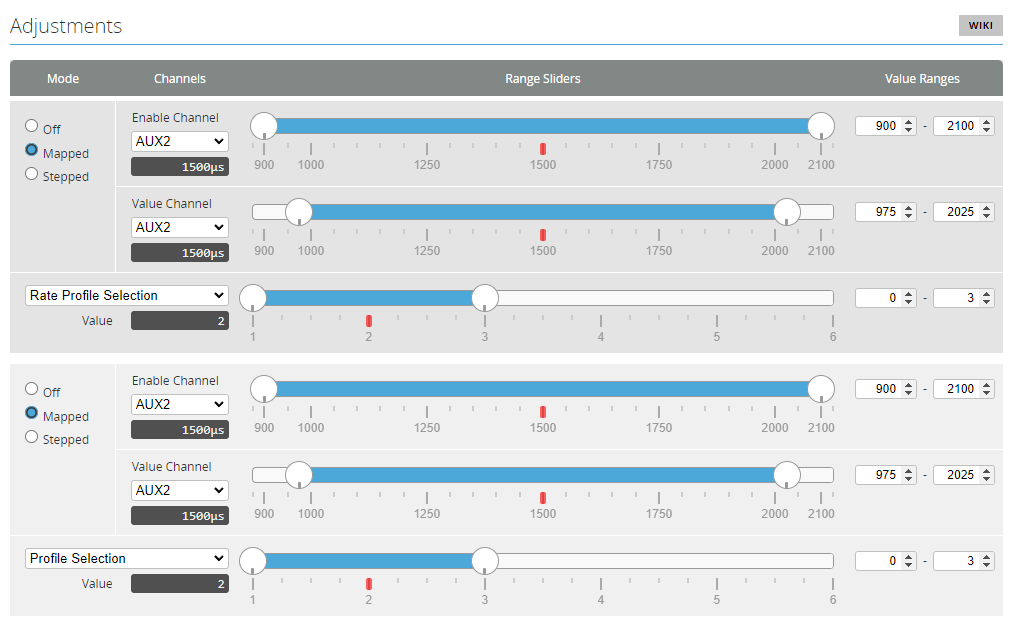
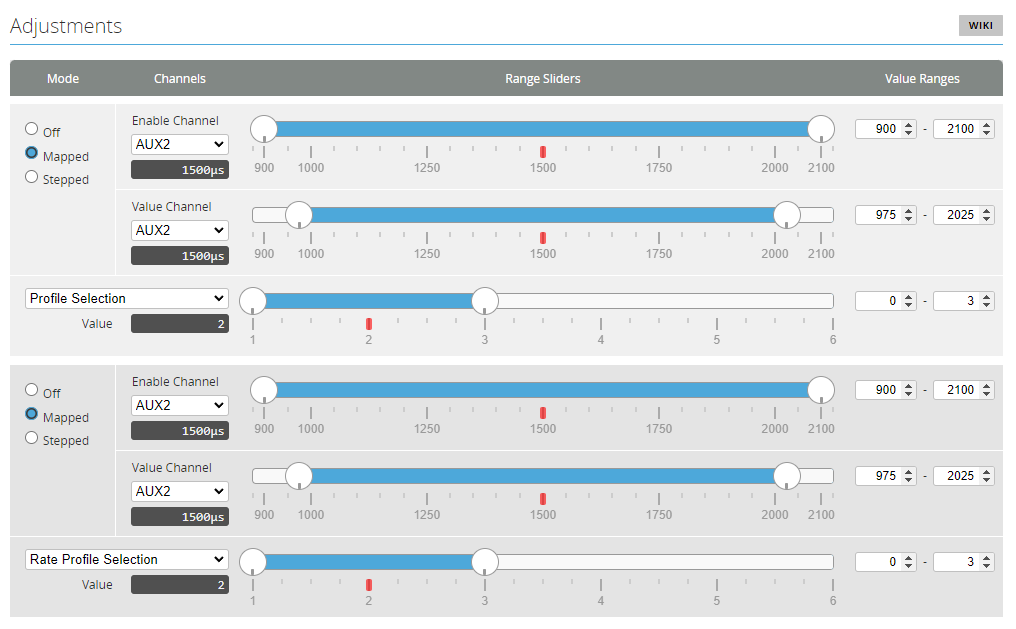
modified:   docs/Tutorial-Walkthroughs/Rotorflight-Generic-Radio-Setup.md 	modified:   docs/Tutorial-Walkthroughs/img/generic-setup-prof-switch.png

diff --git a/docs/Tutorial-Walkthroughs/Rotorflight-Generic-Radio-Setup.md b/docs/Tutorial-Walkthroughs/Rotorflight-Generic-Radio-Setup.md
@@ -126,8 +126,8 @@ Proceed to Adjustment Tab and setup Profiles and rates switching as per below pi
 Alternatively in CLI.
 
 ```
-adjfunc 0 1 2 900 2100 2 975 2025 975 2025 0 0 3
-adjfunc 31 2 2 900 2100 2 975 2025 975 2025 0 0 3
+adjfunc 0 2 1 900 2100 1 975 2025 975 2025 0 0 3
+adjfunc 1 1 1 900 2100 1 975 2025 975 2025 0 0 3
 ```
 
 ### Rescue Setup
@@ -180,36 +180,36 @@ Buffer packs like the [1st Buffer-Pack](https://1st-rc.com/en/product/1st-buffer
 Since there is many functions required to perform the In-flight adjustment as per the above table, you can directly copy the below commands to CLI and save.
 
 ```
-adjfunc 1 14 5 900 1100 6 1025 1075 1925 1975 5 10 200
-adjfunc 2 18 5 900 1100 6 1100 1150 1850 1900 5 10 200
-adjfunc 3 22 5 900 1100 6 1175 1225 1775 1825 5 10 200
-adjfunc 4 49 5 900 1100 6 1250 1300 1700 1750 5 10 200
-adjfunc 5 27 5 900 1100 6 1325 1375 1625 1675 5 10 200
-adjfunc 6 26 5 900 1100 6 1400 1450 1550 1600 5 10 200
-adjfunc 7 15 5 1100 1300 6 1025 1075 1925 1975 5 10 200
-adjfunc 8 19 5 1100 1300 6 1100 1150 1850 1900 5 10 200
-adjfunc 9 23 5 1100 1300 6 1175 1225 1775 1825 5 10 200
-adjfunc 10 50 5 1100 1300 6 1250 1300 1700 1750 5 10 200
-adjfunc 11 28 5 1100 1300 6 1325 1375 1625 1675 5 10 200
-adjfunc 12 29 5 1100 1300 6 1400 1450 1550 1600 5 10 200
-adjfunc 13 16 5 1300 1400 6 1025 1075 1925 1975 5 10 200
-adjfunc 14 20 5 1300 1400 6 1100 1150 1850 1900 5 10 200
-adjfunc 15 24 5 1300 1400 6 1175 1225 1775 1825 5 10 200
-adjfunc 16 51 5 1300 1400 6 1250 1300 1700 1750 5 10 200
-adjfunc 17 39 5 1300 1400 6 1325 1375 1625 1675 5 10 200
-adjfunc 18 40 5 1300 1400 6 1400 1450 1550 1600 5 10 200
-adjfunc 19 17 5 1550 1700 6 1025 1075 1925 1975 5 10 200
-adjfunc 20 21 5 1550 1700 6 1100 1150 1850 1900 5 10 200
-adjfunc 21 25 5 1550 1700 6 1175 1225 1775 1825 5 10 200
-adjfunc 22 52 5 1550 1700 6 1250 1300 1700 1750 5 10 200
-adjfunc 23 59 5 1750 1900 6 1025 1075 1925 1975 5 10 200
-adjfunc 24 60 5 1750 1900 6 1100 1150 1850 1900 5 10 200
-adjfunc 25 54 5 1750 1900 6 1175 1225 1775 1825 5 10 200
-adjfunc 26 55 5 1750 1900 6 1250 1300 1700 1750 5 10 200
-adjfunc 27 56 5 1950 2100 6 1025 1075 1925 1975 5 10 200
-adjfunc 28 57 5 1950 2100 6 1100 1150 1850 1900 5 10 200
-adjfunc 29 58 5 1950 2100 6 1175 1225 1775 1825 5 10 200
-adjfunc 30 48 5 1950 2100 6 1250 1300 1700 1750 5 10 200
+adjfunc 2 14 5 900 1100 6 1025 1075 1925 1975 5 10 200
+adjfunc 3 18 5 900 1100 6 1100 1150 1850 1900 5 10 200
+adjfunc 4 22 5 900 1100 6 1175 1225 1775 1825 5 10 200
+adjfunc 5 49 5 900 1100 6 1250 1300 1700 1750 5 10 200
+adjfunc 6 27 5 900 1100 6 1325 1375 1625 1675 5 10 200
+adjfunc 7 26 5 900 1100 6 1400 1450 1550 1600 5 10 200
+adjfunc 8 15 5 1100 1300 6 1025 1075 1925 1975 5 10 200
+adjfunc 9 19 5 1100 1300 6 1100 1150 1850 1900 5 10 200
+adjfunc 10 23 5 1100 1300 6 1175 1225 1775 1825 5 10 200
+adjfunc 11 50 5 1100 1300 6 1250 1300 1700 1750 5 10 200
+adjfunc 12 28 5 1100 1300 6 1325 1375 1625 1675 5 10 200
+adjfunc 13 29 5 1100 1300 6 1400 1450 1550 1600 5 10 200
+adjfunc 14 16 5 1300 1400 6 1025 1075 1925 1975 5 10 200
+adjfunc 15 20 5 1300 1400 6 1100 1150 1850 1900 5 10 200
+adjfunc 16 24 5 1300 1400 6 1175 1225 1775 1825 5 10 200
+adjfunc 17 51 5 1300 1400 6 1250 1300 1700 1750 5 10 200
+adjfunc 18 39 5 1300 1400 6 1325 1375 1625 1675 5 10 200
+adjfunc 19 40 5 1300 1400 6 1400 1450 1550 1600 5 10 200
+adjfunc 20 17 5 1550 1700 6 1025 1075 1925 1975 5 10 200
+adjfunc 21 21 5 1550 1700 6 1100 1150 1850 1900 5 10 200
+adjfunc 22 25 5 1550 1700 6 1175 1225 1775 1825 5 10 200
+adjfunc 23 52 5 1550 1700 6 1250 1300 1700 1750 5 10 200
+adjfunc 24 59 5 1750 1900 6 1025 1075 1925 1975 5 10 200
+adjfunc 25 60 5 1750 1900 6 1100 1150 1850 1900 5 10 200
+adjfunc 26 54 5 1750 1900 6 1175 1225 1775 1825 5 10 200
+adjfunc 27 55 5 1750 1900 6 1250 1300 1700 1750 5 10 200
+adjfunc 28 56 5 1950 2100 6 1025 1075 1925 1975 5 10 200
+adjfunc 29 57 5 1950 2100 6 1100 1150 1850 1900 5 10 200
+adjfunc 30 58 5 1950 2100 6 1175 1225 1775 1825 5 10 200
+adjfunc 31 48 5 1950 2100 6 1250 1300 1700 1750 5 10 200
 ```
 
 Consult [Rotorflight 2 CLI Changes](https://github.com/rotorflight/rotorflight/wiki/Rotorflight-2-CLI-Changes) for more info on how to setup the above adjustments.
